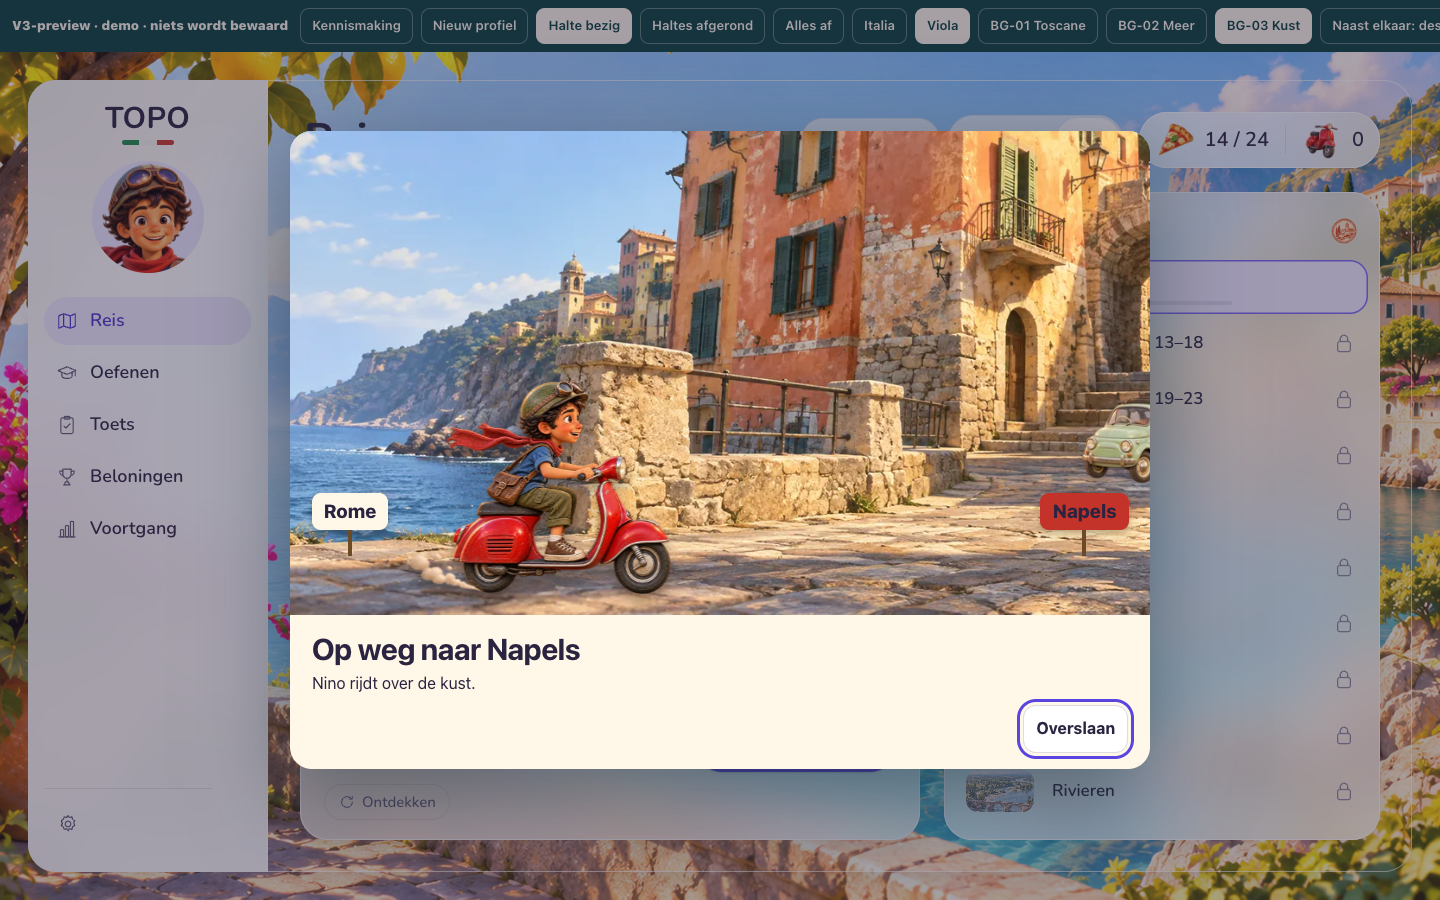
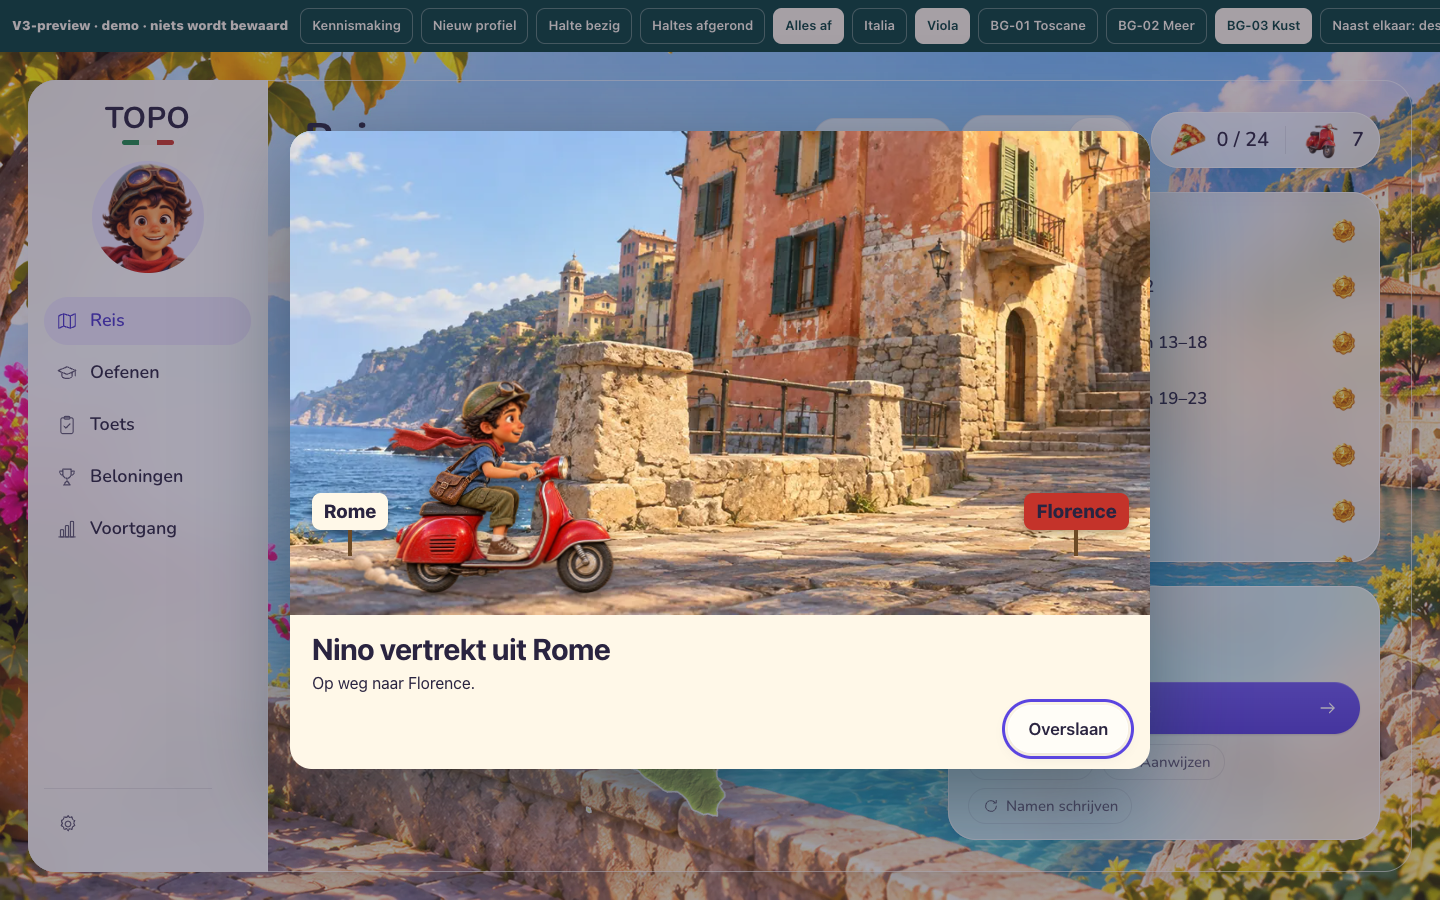
fix(v3): geef Overslaan een glazen pil en violette focus (5B punt 12)

diff --git a/scripts/v3/ronde5b.css b/scripts/v3/ronde5b.css
@@ -15,3 +15,8 @@
 
 /* Landen: preserve the map underneath; strong violet belongs to the outlines. */
 .v3MapStage .v3Map[data-focus=areas] .country.v3Hit{fill-opacity:.12!important;stroke:var(--v3-accent)!important;stroke-opacity:.9;stroke-width:2;vector-effect:non-scaling-stroke}
+
+/* Overslaan keeps its original action; only its secondary surface and keyboard focus change. */
+body.v3On .vespaRide .v3RideSkip{min-width:44px;min-height:48px;padding:0 20px;border:0;border-radius:999px;background:rgba(255,255,255,.72);color:#2a2440;box-shadow:inset 0 0 0 1px rgba(255,255,255,.7),0 4px 12px rgba(42,36,64,.1);-webkit-backdrop-filter:blur(28px) saturate(1.4);backdrop-filter:blur(28px) saturate(1.4);font:600 17px/1.2 var(--v3-font,system-ui,sans-serif)}
+body.v3On .vespaRide .v3RideSkip:focus-visible{outline:3px solid #5b45e0!important;outline-offset:3px}
+@media(prefers-reduced-transparency:reduce),(prefers-contrast:more){body.v3On .vespaRide .v3RideSkip{background:#fff;-webkit-backdrop-filter:none;backdrop-filter:none}}

diff --git a/scripts/v3/boek.js b/scripts/v3/boek.js
@@ -24,6 +24,7 @@
   for(let i=0;i<24&&!has()&&!next.disabled;i++)next.click();
  }};
  const ride=document.querySelector('.vespaRide'),rider=ride?.querySelector('.rideNino');
+ ride?.querySelector('.rideActions button')?.classList.add('v3RideSkip');
  // Ronde 5 punt 7: the Fiat 500 drives past in the background (behind Nino); with reduced motion it stands still.
  const fiat=V.art.lifestyle?.items.find(i=>i.id==='TOPO_16');
  if(rider&&fiat&&!ride.querySelector('.v3RideFiat')){const f=document.createElement('img');f.className='v3RideFiat';f.src=fiat.exports[devicePixelRatio>1?256:128].src;f.alt='';f.setAttribute('aria-hidden','true');f.dataset.lifestyle='TOPO_16';rider.before(f);}

diff --git a/scripts/qa-v3-ronde5b.py b/scripts/qa-v3-ronde5b.py
@@ -85,6 +85,7 @@ async def countries(page, name):
         errors.append(data)
     if any(c['alpha']>.2 or c['alpha']<=0 or c['stroke']!='rgb(91, 69, 224)' or c['strokeAlpha']<.5 or c['width']<1 for c in data['countries']):
         errors.append(data['countries'])
+    data['geometrySha256']=hashlib.sha256(json.dumps(data.pop('geometry')).encode()).hexdigest()
     return data, errors, 'reis-omgeving'
 
 
@@ -93,6 +94,7 @@ async def ride(page, name):
     await page.clock.install(time=0)
     await page.clock.pause_at(100)
     await page.keyboard.press('Tab')
+    before = await page.evaluate('[state.good,state.pizzas,state.trips]')
     await page.evaluate('celebrateTrip("Rome","Florence")')
     button = page.locator('.vespaRide .rideActions button').first
     data = await button.evaluate('''b=>{const s=getComputedStyle(b),r=b.getBoundingClientRect();return{text:b.textContent,focus:document.activeElement===b,visible:b.matches(':focus-visible'),
@@ -104,6 +106,7 @@ async def ride(page, name):
     rgba = re.findall(r'[\d.]+', data['background'])
     if not data['background'].startswith('rgba(') or not .5<=float(rgba[-1])<1:
         errors.append(data)
+    data['rewardCountersBefore']=before
     return data, errors, 'vespa-rit'
 
 
@@ -133,6 +136,11 @@ async def main(point):
                     await page.evaluate('document.activeElement?.blur?.()')
                     await page.mouse.move(1,1)
                 await page.screenshot(path=str(OUT/f'{screen}-{name}.png'))
+                if point==12:
+                    await page.locator('.vespaRide .v3RideSkip').click()
+                    assert await page.locator('.vespaRide').get_attribute('data-phase')=='arrived'
+                    assert await page.evaluate('[state.good,state.pizzas,state.trips]')==result['rewardCountersBefore']
+                    result['skipReachesArrivalWithoutRewardChanges']=True
             runs[name] = {'viewport':[width,height],'screen':screen,'checks':compact_reis(result) if point==10 and not bad else result,'errors':errors}
             await context.close()
         await browser.close()
@@ -140,6 +148,11 @@ async def main(point):
     assert not failures, json.dumps(failures,ensure_ascii=False)
     path = OUT/'ronde5b.json'
     data = json.loads(path.read_text()) if path.exists() else {}
+    for entry in data.values():
+        for run in entry.get('runs',{}).values():
+            checks=run.get('checks',{})
+            if isinstance(checks,dict) and 'geometry' in checks:
+                checks['geometrySha256']=hashlib.sha256(json.dumps(checks.pop('geometry')).encode()).hexdigest()
     data[str(point)] = {'pass':True,'previewSha256':initial,'indexSha256':index,'runs':runs}
     path.write_text(json.dumps(data,ensure_ascii=False,indent=2)+'\n')
     print(f'Ronde 5B punt {point}: PASS ({len(runs)} viewports)',flush=True)
